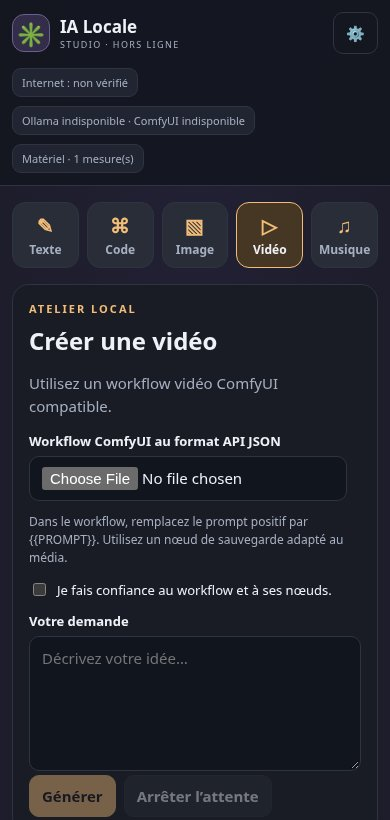
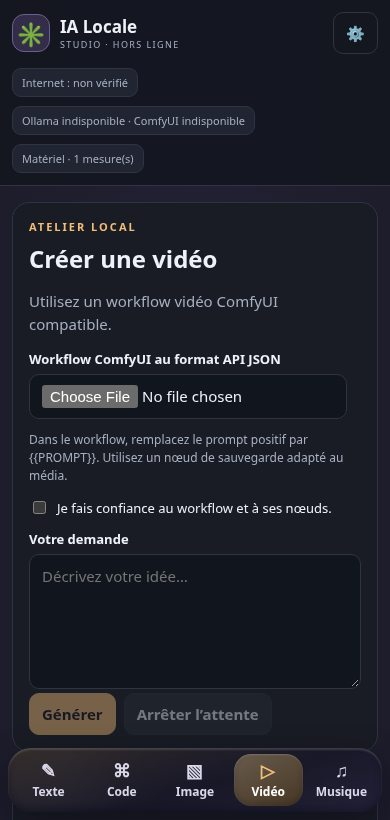
Redesign workshop navigation with Liquid Glass and test all platforms (#4)

diff --git a/desktop/web/style.css b/desktop/web/style.css
@@ -1,3 +1,77 @@
-:root{color-scheme:dark;--bg:#101217;--panel:#191c24;--border:#2e3441;--ink:#eef1f7;--muted:#a6afc1;--accent:#b3a0fa;--accent-bg:#39304c;font-family:system-ui,-apple-system,BlinkMacSystemFont,"Segoe UI",sans-serif}*{box-sizing:border-box}body{margin:0;background:radial-gradient(ellipse at 50% 0,#222134 0,transparent 43rem),var(--bg);color:var(--ink);font-size:15px;min-height:100vh}header{position:sticky;top:0;z-index:5;display:flex;align-items:center;justify-content:space-between;gap:14px;padding:15px max(20px,calc((100vw - 1160px)/2));background:#141720f5;border-bottom:1px solid var(--border)}.brand{display:flex;gap:10px;align-items:center;white-space:nowrap}.logo{display:grid;place-items:center;border:1px solid #69618d;color:#c8bbff;background:#332d49;width:38px;height:38px;border-radius:12px;font-size:24px}.brand strong{font-size:17px}.brand small{display:block;font-size:9px;letter-spacing:1.4px;color:var(--muted)}.observer{display:flex;gap:9px;flex-wrap:wrap;justify-content:center;font-size:11px;color:var(--muted);min-width:0}.observer span{background:#202531;border:1px solid var(--border);padding:6px 9px;border-radius:9px;overflow-wrap:anywhere}main{max-width:1200px;margin:auto;padding:26px 20px;display:grid;gap:16px}nav{display:grid;grid-template-columns:repeat(5,minmax(0,1fr));gap:8px}nav button{display:flex;align-items:center;justify-content:center;gap:8px;padding:14px 6px;min-width:0;border-radius:13px;color:var(--muted)}nav button span{font-size:20px;color:var(--accent)}nav button.selected{color:var(--ink);background:var(--accent-bg);border-color:var(--accent)}.workspace{display:grid;grid-template-columns:1fr 1fr;gap:16px}.panel{border:1px solid var(--border);border-radius:17px;background:var(--panel);padding:22px;min-width:0}.eyebrow{font-size:11px;letter-spacing:2px;font-weight:700;color:var(--accent)}h1{font-size:clamp(24px,3vw,32px);margin:8px 0}h2{font-size:17px;margin:0}p{color:var(--muted);line-height:1.5}label{display:block;font-weight:600;font-size:13px;margin:13px 0 6px}button,input,textarea,select{font:inherit;max-width:100%;border:1px solid var(--border);border-radius:10px;color:var(--ink);background:#11151e;padding:10px 12px}button{cursor:pointer;font-weight:600;background:#282d38;min-height:40px}button:hover:not(:disabled){border-color:var(--accent)}button:disabled{opacity:.43;cursor:not-allowed}button.primary{background:var(--accent);color:#141421;border-color:var(--accent)}button.quiet{background:transparent}button:focus-visible,input:focus-visible,textarea:focus-visible,select:focus-visible,summary:focus-visible,a:focus-visible{outline:2px solid var(--accent);outline-offset:2px}.line{display:flex;gap:8px;align-items:center;min-width:0}.line>select,.line>input{flex:1;min-width:0}.space{justify-content:space-between}.wrap,.actions{flex-wrap:wrap}textarea{width:100%;resize:vertical;min-height:112px;line-height:1.5}details{margin:14px 0;color:var(--muted);font-size:13px}details label{flex:1;min-width:0}details select{display:block;width:100%;margin-top:5px}.check{display:flex;align-items:center;gap:8px;font-weight:400}.check input{flex:none}.hint{font-size:12px;color:var(--muted);line-height:1.5;overflow-wrap:anywhere}.pill{font-size:11px;background:#292d3a;color:var(--muted);padding:5px 9px;border-radius:30px;white-space:nowrap}.results pre,#details,#maintenance{white-space:pre-wrap;overflow-wrap:anywhere;font:inherit;line-height:1.6;max-height:55vh;overflow:auto;color:var(--ink);background:#13161e;border-radius:12px;padding:14px;min-height:100px}.results pre{min-height:240px}#files,#outputs,#library-results{display:grid;gap:8px;margin-top:12px}.entry{display:flex;justify-content:space-between;align-items:center;gap:8px;min-width:0;padding:10px;border:1px solid var(--border);border-radius:10px}.entry span,.entry a{overflow-wrap:anywhere;min-width:0}a{color:var(--accent)}dialog{width:min(650px,calc(100% - 24px));max-height:90dvh;overflow:auto;color:var(--ink);background:var(--panel);border:1px solid var(--border);border-radius:16px;padding:22px}dialog::backdrop{background:#000a}footer{padding:8px 20px 24px;text-align:center;font-size:12px;color:var(--muted)}[hidden]{display:none!important}body[data-kind=code]{--accent:#79d4ea;--accent-bg:#193b49}body[data-kind=image]{--accent:#f2a5bc;--accent-bg:#4a293b}body[data-kind=video]{--accent:#f3bd79;--accent-bg:#463624}body[data-kind=musique]{--accent:#8cdbaf;--accent-bg:#234238}@media(max-width:760px){.workspace{grid-template-columns:1fr}header{padding:12px;flex-wrap:wrap}.observer{order:3;width:100%;justify-content:flex-start}main{padding:16px 12px}.panel{padding:16px}nav button{flex-direction:column;gap:2px;font-size:12px;padding:9px 2px}.results pre{min-height:150px}.brand{flex:1}}@media(max-width:360px){main{padding:12px 8px}nav{gap:4px}.line.actions button{font-size:12px;padding:8px}.panel{padding:12px}}@media(prefers-reduced-motion:no-preference){button{transition:background .12s,border-color .12s}} 
+:root{color-scheme:dark;--bg:#101217;--panel:#191c24;--border:#2e3441;--ink:#eef1f7;--muted:#a6afc1;--accent:#b3a0fa;--accent-bg:#39304c;font-family:system-ui,-apple-system,BlinkMacSystemFont,"Segoe UI",sans-serif}*{box-sizing:border-box}body{margin:0;background:radial-gradient(ellipse at 50% 0,#222134 0,transparent 43rem),var(--bg);color:var(--ink);font-size:15px;min-height:100vh}header{position:sticky;top:0;z-index:5;display:flex;align-items:center;justify-content:space-between;gap:14px;padding:15px max(20px,calc((100vw - 1160px)/2));background:#141720f5;border-bottom:1px solid var(--border)}.brand{display:flex;gap:10px;align-items:center;white-space:nowrap}.logo{display:grid;place-items:center;border:1px solid #69618d;color:#c8bbff;background:#332d49;width:38px;height:38px;border-radius:12px;font-size:24px}.brand strong{font-size:17px}.brand small{display:block;font-size:9px;letter-spacing:1.4px;color:var(--muted)}.observer{display:flex;gap:9px;flex-wrap:wrap;justify-content:center;font-size:11px;color:var(--muted);min-width:0}.observer span{background:#202531;border:1px solid var(--border);padding:6px 9px;border-radius:9px;overflow-wrap:anywhere}main{max-width:1200px;margin:auto;padding:26px 20px;display:grid;gap:16px}#tabs {
+  position: sticky;
+  top: calc(var(--header-height, 70px) + 10px);
+  z-index: 4;
+  display: grid;
+  grid-template-columns: repeat(5, minmax(0, 1fr));
+  gap: 4px;
+  padding: 7px;
+  border-radius: 26px;
+  background: linear-gradient(165deg, #44405a, #201e2e 55%, #28263b);
+  box-shadow: inset 0 2px 2px #ffffff28, inset 0 -3px 7px #0b091a70,
+              0 12px 34px #08071270;
+}
+
+@supports (backdrop-filter: blur(1px)) or (-webkit-backdrop-filter: blur(1px)) {
+  #tabs {
+    background: linear-gradient(165deg, #3c345779, #181626be 55%, #25223c9e);
+    background: linear-gradient(165deg, color-mix(in srgb, var(--accent-bg) 56%, transparent),
+                                #181626be 55%, #25223c9e);
+    -webkit-backdrop-filter: blur(36px) saturate(1.5);
+    backdrop-filter: blur(36px) saturate(1.5);
+  }
+}
+
+#tabs button {
+  display: flex;
+  align-items: center;
+  justify-content: center;
+  gap: 8px;
+  min-width: 0;
+  min-height: 48px;
+  padding: 8px 4px;
+  border: 0;
+  border-radius: 19px;
+  background: transparent;
+  color: #dad7e8;
+}
+
+#tabs button span { font-size: 20px; line-height: 1; color: inherit; }
+#tabs button:hover { background: #ffffff12; }
+#tabs button.selected {
+  color: #fff;
+  background: linear-gradient(155deg, #ffffff30, transparent), var(--accent-bg);
+  box-shadow: inset 0 1px 2px #ffffff30, inset 0 -2px 6px #0b091a35;
+}
+#tabs button.selected span { color: var(--accent); }
+#tabs button:focus-visible { outline-offset: -3px; }
+
+@media (max-width: 760px) {
+  body { padding-bottom: calc(85px + env(safe-area-inset-bottom, 0px)); }
+  html { scroll-padding-bottom: calc(96px + env(safe-area-inset-bottom, 0px)); }
+  #tabs {
+    position: fixed;
+    inset: auto max(8px, env(safe-area-inset-right, 0px))
+           calc(8px + env(safe-area-inset-bottom, 0px))
+           max(8px, env(safe-area-inset-left, 0px));
+    z-index: 6;
+    padding: 6px;
+    border-radius: 23px;
+  }
+  #tabs button {
+    flex-direction: column;
+    gap: 4px;
+    min-height: 52px;
+    padding: 5px 1px;
+    border-radius: 17px;
+    font-size: 12px;
+  }
+  #tabs button span { font-size: 18px; }
+}
+@media (forced-colors: active) {
+  #tabs { border: 1px solid ButtonText; }
+  #tabs button.selected { outline: 2px solid Highlight; outline-offset: -3px; }
+}
+.workspace{display:grid;grid-template-columns:1fr 1fr;gap:16px}.panel{border:1px solid var(--border);border-radius:17px;background:var(--panel);padding:22px;min-width:0}.eyebrow{font-size:11px;letter-spacing:2px;font-weight:700;color:var(--accent)}h1{font-size:clamp(24px,3vw,32px);margin:8px 0}h2{font-size:17px;margin:0}p{color:var(--muted);line-height:1.5}label{display:block;font-weight:600;font-size:13px;margin:13px 0 6px}button,input,textarea,select{font:inherit;max-width:100%;border:1px solid var(--border);border-radius:10px;color:var(--ink);background:#11151e;padding:10px 12px}button{cursor:pointer;font-weight:600;background:#282d38;min-height:40px}button:hover:not(:disabled){border-color:var(--accent)}button:disabled{opacity:.43;cursor:not-allowed}button.primary{background:var(--accent);color:#141421;border-color:var(--accent)}button.quiet{background:transparent}button:focus-visible,input:focus-visible,textarea:focus-visible,select:focus-visible,summary:focus-visible,a:focus-visible{outline:2px solid var(--accent);outline-offset:2px}.line{display:flex;gap:8px;align-items:center;min-width:0}.line>select,.line>input{flex:1;min-width:0}.space{justify-content:space-between}.wrap,.actions{flex-wrap:wrap}textarea{width:100%;resize:vertical;min-height:112px;line-height:1.5}details{margin:14px 0;color:var(--muted);font-size:13px}details label{flex:1;min-width:0}details select{display:block;width:100%;margin-top:5px}.check{display:flex;align-items:center;gap:8px;font-weight:400}.check input{flex:none}.hint{font-size:12px;color:var(--muted);line-height:1.5;overflow-wrap:anywhere}.pill{font-size:11px;background:#292d3a;color:var(--muted);padding:5px 9px;border-radius:30px;white-space:nowrap}.results pre,#details,#maintenance{white-space:pre-wrap;overflow-wrap:anywhere;font:inherit;line-height:1.6;max-height:55vh;overflow:auto;color:var(--ink);background:#13161e;border-radius:12px;padding:14px;min-height:100px}.results pre{min-height:240px}#files,#outputs,#library-results{display:grid;gap:8px;margin-top:12px}.entry{display:flex;justify-content:space-between;align-items:center;gap:8px;min-width:0;padding:10px;border:1px solid var(--border);border-radius:10px}.entry span,.entry a{overflow-wrap:anywhere;min-width:0}a{color:var(--accent)}dialog{width:min(650px,calc(100% - 24px));max-height:90dvh;overflow:auto;color:var(--ink);background:var(--panel);border:1px solid var(--border);border-radius:16px;padding:22px}dialog::backdrop{background:#000a}footer{padding:8px 20px 24px;text-align:center;font-size:12px;color:var(--muted)}[hidden]{display:none!important}body[data-kind=code]{--accent:#79d4ea;--accent-bg:#193b49}body[data-kind=image]{--accent:#f2a5bc;--accent-bg:#4a293b}body[data-kind=video]{--accent:#f3bd79;--accent-bg:#463624}body[data-kind=musique]{--accent:#8cdbaf;--accent-bg:#234238}@media(max-width:760px){.workspace{grid-template-columns:1fr}header{position:static;padding:12px;flex-wrap:wrap}.observer{order:3;width:100%;justify-content:flex-start}main{padding:16px 12px}.panel{padding:16px}.results pre{min-height:150px}.brand{flex:1}}@media(max-width:360px){main{padding:12px 8px}.line.actions button{font-size:12px;padding:8px}.panel{padding:12px}}@media(prefers-reduced-motion:no-preference){button{transition:background .12s,border-color .12s}}
 
 #network[data-offline=true]{color:#ffc98e;border-color:#a77945}#network-message:not(:empty){padding:9px;border:1px solid var(--border);border-radius:9px}#pull-form input{min-width:140px}

diff --git a/desktop/web/index.html b/desktop/web/index.html
@@ -1,1 +1,1 @@
-<!doctype html><html lang="fr"><head><meta charset="utf-8"><meta name="viewport" content="width=device-width, initial-scale=1"><title>IA Locale Studio</title><link rel="stylesheet" href="style.css"><script defer src="app.js"></script></head><body><header><div class="brand"><span class="logo">✳</span><div><strong>IA Locale</strong><small>STUDIO · HORS LIGNE</small></div></div><div class="observer"><span id="network" role="status">Internet : non vérifié</span><span id="engines">Connexion…</span><span id="hardware">Matériel : en attente</span></div><button id="settings" class="quiet" aria-label="Ouvrir les réglages">⚙</button></header><main><nav aria-label="Création" id="tabs"><button data-kind="texte" class="selected"><span>✎</span>Texte</button><button data-kind="code"><span>⌘</span>Code</button><button data-kind="image"><span>▧</span>Image</button><button data-kind="video"><span>▷</span>Vidéo</button><button data-kind="musique"><span>♫</span>Musique</button></nav><div class="workspace"><section class="panel compose"><div class="eyebrow">ATELIER LOCAL</div><h1 id="heading">Créer du texte</h1><p id="subtitle">Discutez avec un modèle local via Ollama.</p><form id="generate-form"><div id="text-settings"><label for="models">Modèle installé</label><div class="line"><select id="models" required><option value="">Aucun modèle détecté</option></select><button type="button" id="refresh" class="quiet">Actualiser</button></div><details><summary>Réglages de génération</summary><div class="line"><label>Contexte <select id="context"><option>2048</option><option selected>4096</option><option>8192</option><option>16384</option><option>32768</option></select></label><label>Tokens maximum <select id="tokens"><option>256</option><option selected>1024</option><option>2048</option><option>4096</option><option>8192</option></select></label></div><p class="hint">Une valeur élevée augmente la mémoire utilisée. Déchargement demandé à la fin.</p></details></div><div id="media-settings" hidden><label for="workflow">Workflow ComfyUI au format API JSON</label><input type="file" id="workflow" accept=".json,application/json"><p class="hint">Dans le workflow, remplacez le prompt positif par {{PROMPT}}. Utilisez un nœud de sauvegarde adapté au média.</p><label class="check"><input type="checkbox" id="trusted"> Je fais confiance au workflow et à ses nœuds.</label></div><label for="prompt">Votre demande</label><textarea id="prompt" rows="5" required placeholder="Décrivez votre idée…"></textarea><div class="line actions"><button id="generate" type="submit" class="primary">Générer</button><button type="button" id="stop" disabled>Arrêter l’attente</button><button type="button" id="clear" class="quiet">Nouvelle discussion</button></div></form><div id="feedback" role="status" class="hint"></div></section><section class="panel results"><div class="line space"><h2>Résultat</h2><span class="pill" id="state">Prêt</span></div><pre id="result" aria-live="off">Votre création apparaîtra ici.</pre><div id="files"></div><div id="rate" class="hint"></div></section></div><section class="panel library"><div class="line space"><h2>Bibliothèque de modèles</h2><span class="pill">Hugging Face</span></div><p class="hint">Internet est nécessaire uniquement pour rechercher et récupérer de nouveaux modèles. Les modèles installés fonctionnent hors ligne, avec leurs moteurs locaux. Les résultats Hugging Face ne garantissent pas la compatibilité.</p><form id="search-form" class="line"><input id="search" type="search" placeholder="Rechercher un modèle…" maxlength="200"><button type="submit">Rechercher</button></form><div id="library-results"></div><p id="network-message" class="hint" role="status"></p><details><summary>Installer un modèle Texte / Code (Ollama)</summary><form id="pull-form" class="line wrap"><input id="pull-model" aria-label="Nom du modèle Ollama" placeholder="qwen2.5:7b" maxlength="180" required><button id="pull" type="submit">Télécharger</button></form><p class="hint">Indiquez le nom exact du modèle Ollama. Le stockage et les téléchargements sont gérés par Ollama. Aucun téléchargement automatique.</p></details></section><section class="panel"><div class="line space"><h2>Créations enregistrées</h2><button type="button" class="quiet" id="outputs-refresh">Actualiser</button></div><div id="outputs" class="hint">Chargement…</div></section></main><dialog id="dialog"><div class="line space"><h2>Réglages & maintenance</h2><button id="close" class="quiet" aria-label="Fermer">✕</button></div><p id="root" class="hint"></p><p>Les moteurs doivent être installés et démarrés sur ce PC. Aucun moteur distant n’est utilisé par défaut.</p><pre id="details">En attente des mesures…</pre><div class="line wrap"><button id="benchmark">Benchmark Texte / Code</button><button id="backup">Sauvegarder les données</button><button id="diag-refresh" class="quiet">Actualiser les mesures</button></div><div class="line"><select id="backup-list" aria-label="Archive à restaurer"><option value="">Aucune archive</option></select><button id="restore" disabled>Restaurer dans un nouveau dossier</button></div><p class="hint">Les modèles situés en dehors de data/ ne sont pas inclus. La restauration ne remplace jamais les données actuelles.</p><pre id="maintenance" role="status"></pre></dialog><footer>Local · Aucune télémétrie intégrée · Une opération à la fois</footer></body></html>
+<!doctype html><html lang="fr"><head><meta charset="utf-8"><meta name="viewport" content="width=device-width, initial-scale=1,viewport-fit=cover"><title>IA Locale Studio</title><link rel="stylesheet" href="style.css"><script defer src="app.js"></script></head><body><header><div class="brand"><span class="logo">✳</span><div><strong>IA Locale</strong><small>STUDIO · HORS LIGNE</small></div></div><div class="observer"><span id="network" role="status">Internet : non vérifié</span><span id="engines">Connexion…</span><span id="hardware">Matériel : en attente</span></div><button id="settings" class="quiet" aria-label="Ouvrir les réglages">⚙</button></header><main><nav aria-label="Création" id="tabs"><button type="button" data-kind="texte" class="selected" aria-pressed="true"><span aria-hidden="true">✎</span>Texte</button><button type="button" data-kind="code" aria-pressed="false"><span aria-hidden="true">⌘</span>Code</button><button type="button" data-kind="image" aria-pressed="false"><span aria-hidden="true">▧</span>Image</button><button type="button" data-kind="video" aria-pressed="false"><span aria-hidden="true">▷</span>Vidéo</button><button type="button" data-kind="musique" aria-pressed="false"><span aria-hidden="true">♫</span>Musique</button></nav><div class="workspace"><section class="panel compose"><div class="eyebrow">ATELIER LOCAL</div><h1 id="heading">Créer du texte</h1><p id="subtitle">Discutez avec un modèle local via Ollama.</p><form id="generate-form"><div id="text-settings"><label for="models">Modèle installé</label><div class="line"><select id="models" required><option value="">Aucun modèle détecté</option></select><button type="button" id="refresh" class="quiet">Actualiser</button></div><details><summary>Réglages de génération</summary><div class="line"><label>Contexte <select id="context"><option>2048</option><option selected>4096</option><option>8192</option><option>16384</option><option>32768</option></select></label><label>Tokens maximum <select id="tokens"><option>256</option><option selected>1024</option><option>2048</option><option>4096</option><option>8192</option></select></label></div><p class="hint">Une valeur élevée augmente la mémoire utilisée. Déchargement demandé à la fin.</p></details></div><div id="media-settings" hidden><label for="workflow">Workflow ComfyUI au format API JSON</label><input type="file" id="workflow" accept=".json,application/json"><p class="hint">Dans le workflow, remplacez le prompt positif par {{PROMPT}}. Utilisez un nœud de sauvegarde adapté au média.</p><label class="check"><input type="checkbox" id="trusted"> Je fais confiance au workflow et à ses nœuds.</label></div><label for="prompt">Votre demande</label><textarea id="prompt" rows="5" required placeholder="Décrivez votre idée…"></textarea><div class="line actions"><button id="generate" type="submit" class="primary">Générer</button><button type="button" id="stop" disabled>Arrêter l’attente</button><button type="button" id="clear" class="quiet">Nouvelle discussion</button></div></form><div id="feedback" role="status" class="hint"></div></section><section class="panel results"><div class="line space"><h2>Résultat</h2><span class="pill" id="state">Prêt</span></div><pre id="result" aria-live="off">Votre création apparaîtra ici.</pre><div id="files"></div><div id="rate" class="hint"></div></section></div><section class="panel library"><div class="line space"><h2>Bibliothèque de modèles</h2><span class="pill">Hugging Face</span></div><p class="hint">Internet est nécessaire uniquement pour rechercher et récupérer de nouveaux modèles. Les modèles installés fonctionnent hors ligne, avec leurs moteurs locaux. Les résultats Hugging Face ne garantissent pas la compatibilité.</p><form id="search-form" class="line"><input id="search" type="search" placeholder="Rechercher un modèle…" maxlength="200"><button type="submit">Rechercher</button></form><div id="library-results"></div><p id="network-message" class="hint" role="status"></p><details><summary>Installer un modèle Texte / Code (Ollama)</summary><form id="pull-form" class="line wrap"><input id="pull-model" aria-label="Nom du modèle Ollama" placeholder="qwen2.5:7b" maxlength="180" required><button id="pull" type="submit">Télécharger</button></form><p class="hint">Indiquez le nom exact du modèle Ollama. Le stockage et les téléchargements sont gérés par Ollama. Aucun téléchargement automatique.</p></details></section><section class="panel"><div class="line space"><h2>Créations enregistrées</h2><button type="button" class="quiet" id="outputs-refresh">Actualiser</button></div><div id="outputs" class="hint">Chargement…</div></section></main><dialog id="dialog"><div class="line space"><h2>Réglages & maintenance</h2><button id="close" class="quiet" aria-label="Fermer">✕</button></div><p id="root" class="hint"></p><p>Les moteurs doivent être installés et démarrés sur ce PC. Aucun moteur distant n’est utilisé par défaut.</p><pre id="details">En attente des mesures…</pre><div class="line wrap"><button id="benchmark">Benchmark Texte / Code</button><button id="backup">Sauvegarder les données</button><button id="diag-refresh" class="quiet">Actualiser les mesures</button></div><div class="line"><select id="backup-list" aria-label="Archive à restaurer"><option value="">Aucune archive</option></select><button id="restore" disabled>Restaurer dans un nouveau dossier</button></div><p class="hint">Les modèles situés en dehors de data/ ne sont pas inclus. La restauration ne remplace jamais les données actuelles.</p><pre id="maintenance" role="status"></pre></dialog><footer>Local · Aucune télémétrie intégrée · Une opération à la fois</footer></body></html>

diff --git a/desktop/web/app.js b/desktop/web/app.js
@@ -1,6 +1,22 @@
 'use strict';const $=id=>document.getElementById(id);let token='',kind='texte',status={},job={},timer=null,history={texte:[],code:[]},pending=null;const config={texte:['Créer du texte','Discutez avec un modèle local via Ollama.'],code:['Créer du code','Programmez avec un modèle local via Ollama.'],image:['Créer une image','Utilisez un workflow ComfyUI compatible.'],video:['Créer une vidéo','Utilisez un workflow vidéo ComfyUI compatible.'],musique:['Créer de la musique','Utilisez un workflow audio ou musical ComfyUI compatible.']};const textMode=()=>kind==='texte'||kind==='code';const busy=()=>job.state==='running'||job.state==='stopping';async function api(path,body){const r=await fetch('/api/'+path,{method:body===undefined?'GET':'POST',headers:{'X-Studio-Token':token,...(body===undefined?{}:{'Content-Type':'application/json'})},...(body===undefined?{}:{body:JSON.stringify(body)})});const v=await r.json();if(!r.ok)throw Error(v.error||'HTTP '+r.status);return v}function msg(v){$('feedback').textContent=v}function controls(){const available=textMode()?(!status.ollama_error&&!!$('models').value):(!status.comfy_error&&!!status.comfy_stats);$('generate').disabled=busy()||!available;$('stop').disabled=!busy()||job.state==='stopping'||!(Object.keys(config).includes(job.kind)||job.kind==='pull');$('benchmark').disabled=busy()||!!status.ollama_error||!(status.models||[]).length;$('backup').disabled=busy();$('restore').disabled=busy()||!$('backup-list').value;$('clear').disabled=busy();$('prompt').disabled=busy();$('models').disabled=busy();$('workflow').disabled=busy();$('trusted').disabled=busy();$('pull').disabled=busy()||!!status.ollama_error}
 function selectKind(k){kind=k;document.body.dataset.kind=k;for(const b of document.querySelectorAll('[data-kind]'))if(b.tagName==='BUTTON'){b.classList.toggle('selected',b.dataset.kind===k);b.setAttribute('aria-pressed',String(b.dataset.kind===k))}$('heading').textContent=config[k][0];$('subtitle').textContent=config[k][1];$('text-settings').hidden=!textMode();$('media-settings').hidden=textMode();$('models').required=textMode();$('clear').hidden=!textMode();$('workflow').value='';$('trusted').checked=false;msg('');controls()}
-for(const b of $('tabs').querySelectorAll('button'))b.onclick=()=>selectKind(b.dataset.kind);$('models').onchange=controls;$('clear').onclick=()=>{history[kind]=[];$('prompt').value='';msg('Nouvelle discussion : le contexte précédent est effacé.')};async function refresh(){try{status=await api('status');const model=$('models'),old=model.value;model.replaceChildren();const models=status.models||[];if(!models.length)model.append(new Option('Aucun modèle local détecté',''));for(const m of models)model.append(new Option((m.name||m.model)+' · '+(m.size/1e9).toFixed(1)+' Go',m.name||m.model));if([...model.options].some(o=>o.value===old))model.value=old;$('engines').textContent='Ollama '+(status.ollama_error?'indisponible':'joignable')+' · ComfyUI '+(status.comfy_error?'indisponible':'joignable');$('root').textContent='Dossier : '+status.root;controls()}catch(e){$('engines').textContent='Serveur inaccessible';msg(e.message)}}
+const appHeader = document.querySelector('header');
+new ResizeObserver(() => {
+  document.body.style.setProperty('--header-height', appHeader.offsetHeight + 'px');
+}).observe(appHeader);
+for (const button of $('tabs').querySelectorAll('button')) {
+  button.onclick = () => {
+    if (button.dataset.kind === kind) return;
+    selectKind(button.dataset.kind);
+    const headingTop = $('heading').getBoundingClientRect().top;
+    const chromeBottom = Math.max(
+      appHeader.getBoundingClientRect().bottom,
+      matchMedia('(max-width: 760px)').matches ? 0 : $('tabs').getBoundingClientRect().bottom,
+    );
+    if (headingTop < chromeBottom) window.scrollTo(0, 0);
+  };
+}
+$('models').onchange=controls;$('clear').onclick=()=>{history[kind]=[];$('prompt').value='';msg('Nouvelle discussion : le contexte précédent est effacé.')};async function refresh(){try{status=await api('status');const model=$('models'),old=model.value;model.replaceChildren();const models=status.models||[];if(!models.length)model.append(new Option('Aucun modèle local détecté',''));for(const m of models)model.append(new Option((m.name||m.model)+' · '+(m.size/1e9).toFixed(1)+' Go',m.name||m.model));if([...model.options].some(o=>o.value===old))model.value=old;$('engines').textContent='Ollama '+(status.ollama_error?'indisponible':'joignable')+' · ComfyUI '+(status.comfy_error?'indisponible':'joignable');$('root').textContent='Dossier : '+status.root;controls()}catch(e){$('engines').textContent='Serveur inaccessible';msg(e.message)}}
 async function observer(){try{const v=await api('observer');const checks=v.controles||[];$('hardware').textContent=checks.some(x=>x.etat==='OK')?'Matériel · '+checks.filter(x=>x.etat==='OK').length+' mesure(s)':'Matériel non vérifié';$('details').textContent=checks.map(x=>x.controle+' : '+x.detail+' ['+x.etat+']').join('\n')}catch(e){$('hardware').textContent='Mesures indisponibles';$('details').textContent=e.message}}
 async function download(j,name){const a=document.createElement('a');a.href='/api/file?'+new URLSearchParams({job:j,name});a.download=name;document.body.append(a);a.click();a.remove()}function entry(parent,j,name){const line=document.createElement('div');line.className='entry';const s=document.createElement('span');s.textContent=name;const b=document.createElement('button');b.textContent='Enregistrer';b.onclick=async()=>{b.disabled=true;try{await download(j,name)}catch(e){msg(e.message)}finally{b.disabled=false}};line.append(s,b);parent.append(line)}async function outputs(){try{const r=await api('outputs');$('outputs').replaceChildren();if(!r.length)$('outputs').textContent='Aucune création enregistrée.';for(const f of r)entry($('outputs'),f.job,f.name)}catch(e){$('outputs').textContent=e.message}}
 function render(j){const changed=j.id!==job.id||j.state!==job.state||JSON.stringify(j.files)!==JSON.stringify(job.files);job=j;const labels={running:'En cours',stopping:'Arrêt demandé',done:'Terminé',error:'Erreur',stopped:'Attente arrêtée'};$('state').textContent=labels[j.state]||'Prêt';$('result').textContent=[j.text,j.error].filter(Boolean).join('\n\n')||'Votre création apparaîtra ici.';$('rate').textContent=j.progress||(j.rate?j.rate.toFixed(1)+' tokens/s mesurés':'');if(changed){$('files').replaceChildren();for(const f of j.files||[])entry($('files'),j.id,f)}if(['backup','benchmark','restore'].includes(j.kind))$('maintenance').textContent=[labels[j.state],j.text,j.error].filter(Boolean).join('\n');if(changed&&j.kind==='backup'&&!busy())backupList();if(changed&&j.kind==='pull'&&!busy()){refresh();if(j.state==='error'||j.state==='stopped')networkNotice(j.error||'Téléchargement interrompu.');else networkNotice(j.text)}if(pending&&j.id===pending.id&&!busy()){if(j.state==='done'&&['texte','code'].includes(j.kind)){history[j.kind].push({role:'user',content:pending.prompt},{role:'assistant',content:j.text});history[j.kind]=history[j.kind].slice(-20)}pending=null;outputs()}controls()}

diff --git a/android/app/src/main/java/fr/ialocale/mobile/MainActivity.java b/android/app/src/main/java/fr/ialocale/mobile/MainActivity.java
@@ -4,6 +4,11 @@ import android.os.Bundle;
 import android.content.Intent;
 import android.content.Context;
 import android.graphics.Color;
+import android.content.res.ColorStateList;
+import android.graphics.drawable.Drawable;
+import android.graphics.drawable.GradientDrawable;
+import android.graphics.drawable.RippleDrawable;
+import android.graphics.drawable.StateListDrawable;
 import android.net.*;
 import android.view.View;
 import android.widget.*;
@@ -32,14 +37,57 @@ public final class MainActivity extends Activity {
         ScrollView scroll=new ScrollView(this);scroll.setFillViewport(true);
         LinearLayout root=new LinearLayout(this);root.setOrientation(LinearLayout.VERTICAL);root.setPadding(dp(20),dp(32),dp(20),dp(24));root.setBackgroundColor(0xff111521);scroll.addView(root);
         root.addView(label("IA Locale Studio",28));root.addView(label("Android • Calcul local CPU",15));connection=label("",14);root.addView(connection);
-        LinearLayout tabs=new LinearLayout(this);textTab=button("Texte",v->select(false));codeTab=button("Code",v->select(true));tabs.addView(textTab,new LinearLayout.LayoutParams(0,-2,1));tabs.addView(codeTab,new LinearLayout.LayoutParams(0,-2,1));root.addView(tabs);
+        root.addView(createWorkshopBar());
         root.addView(label("Image · Vidéo · Musique : non disponibles dans cette édition native.",14));
         modelLabel=label("",14);root.addView(modelLabel);pick=button("Importer un modèle GGUF",v->{if(busy)return;Intent i=new Intent(Intent.ACTION_OPEN_DOCUMENT);i.setType("*/*");i.addCategory(Intent.CATEGORY_OPENABLE);startActivityForResult(i,PICK);});root.addView(pick);
         download=button("Télécharger un modèle sur Hugging Face",v->{refreshNetwork();if(!online()){state.setText("Vous êtes hors ligne. Connectez-vous pour télécharger un modèle. Les modèles installés restent utilisables.");return;}try{startActivity(new Intent(Intent.ACTION_VIEW,Uri.parse("https://huggingface.co/models?library=gguf")));}catch(Exception e){state.setText("Aucun navigateur disponible.");}});root.addView(download);
         root.addView(label("Demande",16));prompt=new EditText(this);prompt.setHint("Écrire une demande…");prompt.setTextColor(Color.WHITE);prompt.setHintTextColor(0xffa5aabb);prompt.setMinLines(4);root.addView(prompt);
         run=button("Générer localement",v->start());root.addView(run);stop=button("Arrêter",v->{cancelled.set(true);if(nativeReady)stopNative();state.setText("Arrêt demandé…");});root.addView(stop);state=label("Prêt",14);root.addView(state);output=label("",16);output.setTextIsSelectable(true);root.addView(output);setContentView(scroll);select(false);refresh();refreshNetwork();
     }
-    private void select(boolean c){code=c;textTab.setEnabled(!busy&&c);codeTab.setEnabled(!busy&&!c);}
+    private LinearLayout createWorkshopBar() {
+        LinearLayout bar = new LinearLayout(this);
+        bar.setOrientation(LinearLayout.HORIZONTAL);
+        bar.setPadding(dp(6), dp(6), dp(6), dp(6));
+        bar.setBackground(glassGradient(24, 0xff4b435f, 0xff251f35, 0xff302940));
+        bar.setElevation(dp(5));
+        textTab = workshopButton("Texte", false, 0xff6b588b, 0xff433457);
+        codeTab = workshopButton("Code", true, 0xff356875, 0xff244451);
+        bar.addView(textTab, new LinearLayout.LayoutParams(0, -2, 1));
+        bar.addView(codeTab, new LinearLayout.LayoutParams(0, -2, 1));
+        return bar;
+    }
+
+    private Button workshopButton(String title, boolean codeWorkshop, int highlight, int base) {
+        Button tab = button(title, view -> select(codeWorkshop));
+        tab.setMinHeight(dp(48));
+        tab.setMinimumHeight(dp(48));
+        tab.setPadding(dp(8), dp(7), dp(8), dp(7));
+        tab.setTextColor(new ColorStateList(
+                new int[][]{{-android.R.attr.state_enabled}, {android.R.attr.state_selected}, {}},
+                new int[]{0xffa49bb4, Color.WHITE, 0xffe4ddef}));
+        tab.setBackgroundTintList(null);
+        tab.setStateListAnimator(null);
+        StateListDrawable surface = new StateListDrawable();
+        surface.addState(new int[]{android.R.attr.state_selected}, glassGradient(18, highlight, base));
+        surface.addState(new int[]{}, glassGradient(18, Color.TRANSPARENT, Color.TRANSPARENT));
+        Drawable mask = glassGradient(18, Color.WHITE, Color.WHITE);
+        tab.setBackground(new RippleDrawable(ColorStateList.valueOf(0x36ffffff), surface, mask));
+        return tab;
+    }
+
+    private GradientDrawable glassGradient(int radius, int... colors) {
+        GradientDrawable surface = new GradientDrawable(GradientDrawable.Orientation.TL_BR, colors);
+        surface.setCornerRadius(dp(radius));
+        return surface;
+    }
+
+    private void select(boolean codeWorkshop) {
+        code = codeWorkshop;
+        textTab.setSelected(!code);
+        codeTab.setSelected(code);
+        textTab.setEnabled(!busy);
+        codeTab.setEnabled(!busy);
+    }
     private boolean online(){ConnectivityManager cm=(ConnectivityManager)getSystemService(Context.CONNECTIVITY_SERVICE);NetworkCapabilities caps=cm.getNetworkCapabilities(cm.getActiveNetwork());return caps!=null&&caps.hasCapability(NetworkCapabilities.NET_CAPABILITY_VALIDATED);}
     private void refreshNetwork(){connection.setText(online()?"En ligne · calcul toujours local":"Hors ligne · modèles installés utilisables");}
     @Override protected void onResume(){super.onResume();if(connection!=null)refreshNetwork();}

diff --git a/desktop/ui_test.py b/desktop/ui_test.py
@@ -38,13 +38,42 @@ def run():
             line=server.stdout.readline();url=line.split('http://localhost:')[1].strip();url='http://127.0.0.1:'+url;wait_url(url)
             with sync_playwright() as p:
                 browser=p.chromium.launch(executable_path=os.environ.get('CHROMIUM_PATH'),args=['--no-sandbox']);page=browser.new_page(accept_downloads=True);errors=[];page.on('pageerror',lambda e:errors.append(str(e)));page.goto(url);page.locator('#models option[value="local:1"]').wait_for(state='attached')
-                for w,h in [(1440,900),(768,1024),(390,844),(320,720)]:
+                tab_bar = page.get_by_role('navigation', name='Création')
+                expect(tab_bar.get_by_role('button', pressed=True)).to_have_text('✎Texte')
+                assert 'blur(' in tab_bar.evaluate('(bar) => getComputedStyle(bar).backdropFilter')
+                for w,h in [(1440,900),(768,1024),(390,844),(320,720),(667,375)]:
                     page.set_viewport_size({'width':w,'height':h})
                     for k in ['texte','code','image','video','musique']:
                         page.locator('button[data-kind='+k+']').click();assert page.locator('button.selected').get_attribute('data-kind')==k
                         assert page.evaluate('document.documentElement.scrollWidth <= innerWidth+1'),(w,h,k)
                         assert page.locator('#media-settings').is_visible()==(k in ['image','video','musique'])
-                    print(f'PASS {w}×{h}: cinq sections, sélection, formulaires, aucun débordement')
+                    page.evaluate('scrollTo(0, document.body.scrollHeight)')
+                    bar = tab_bar.bounding_box()
+                    assert bar and bar['x'] >= 0 and bar['x'] + bar['width'] <= w + 1
+                    if w <= 760:
+                        assert abs(h - (bar['y'] + bar['height']) - 8) <= 1
+                        footer = page.locator('footer').bounding_box()
+                        assert footer and footer['y'] + footer['height'] <= bar['y']
+                    else:
+                        header = page.locator('header').bounding_box()
+                        assert header and bar['y'] >= header['y'] + header['height']
+                    code_tab = tab_bar.get_by_role('button', name='Code')
+                    code_tab.focus()
+                    code_tab.press('Enter')
+                    expect(code_tab).to_have_attribute('aria-pressed', 'true')
+                    expect(tab_bar.get_by_role('button', pressed=True)).to_have_count(1)
+                    assert page.locator('#heading').bounding_box()['y'] >= 0
+                    print(f'PASS {w}×{h}: barre visible au scroll, clavier, cinq ateliers, aucun débordement')
+                touch = browser.new_page(
+                    viewport={'width': 390, 'height': 844}, is_mobile=True, has_touch=True,
+                    reduced_motion='reduce',
+                )
+                touch.goto(url)
+                touch.get_by_role('button', name='Musique').tap()
+                expect(touch.get_by_role('heading', name='Créer de la musique')).to_be_visible()
+                expect(touch.get_by_role('button', name='Musique')).to_have_attribute('aria-pressed', 'true')
+                touch.close()
+                print('PASS navigation tactile avec animations réduites')
                 page.set_viewport_size({'width':1200,'height':900});page.locator('button[data-kind=texte]').click();page.locator('#prompt').fill('Test');page.locator('#generate').click();expect(page.locator('#state')).to_have_text('Terminé', timeout=10000);assert 'Bonjour test' in page.locator('#result').inner_text();print('PASS chat simulé dans l’interface')
                 with page.expect_download() as d:page.locator('#files button').first.click()
                 assert d.value.suggested_filename=='reponse.txt';assert pathlib.Path(d.value.path()).read_text()=='Bonjour test';print('PASS téléchargement natif sans blob mémoire')

diff --git a/android/tests/workshop_ui.py b/android/tests/workshop_ui.py
@@ -1,0 +1,49 @@
+"""Exercise the published APK's native workshop navigation on a clean emulator."""
+import re
+import subprocess
+import sys
+import time
+import xml.etree.ElementTree as ET
+
+PACKAGE = "fr.ialocale.mobile"
+DUMP = "/sdcard/ia-workshops.xml"
+
+
+def adb(*args):
+    return subprocess.check_output(["adb", *args], encoding="utf-8", timeout=35)
+
+
+def view():
+    adb("shell", "uiautomator", "dump", DUMP)
+    root = ET.fromstring(adb("shell", "cat", DUMP))
+    return {node.get("text"): node.attrib for node in root.iter("node")
+            if node.get("package") == PACKAGE and node.get("text")}
+
+
+def expect_workshop(active):
+    inactive = "Code" if active == "Texte" else "Texte"
+    for _ in range(5):
+        nodes = view()
+        if nodes.get(active, {}).get("selected") == "true":
+            assert nodes[inactive]["selected"] == "false"
+            assert all(nodes[name]["enabled"] == "true" for name in (active, inactive))
+            return nodes
+        time.sleep(0.5)
+    raise AssertionError(f"Atelier {active} non sélectionné. Nœuds visibles : {list(nodes)}")
+
+
+def tap(node):
+    left, top, right, bottom = map(int, re.findall(r"\d+", node["bounds"]))
+    adb("shell", "input", "tap", str((left + right) // 2), str((top + bottom) // 2))
+
+
+adb("install", sys.argv[1])
+launch = adb("shell", "am", "start", "-W", "-n", f"{PACKAGE}/.MainActivity")
+assert "Status: ok" in launch, launch
+first = expect_workshop("Texte")
+assert "Importer un modèle GGUF" in first
+assert "Aucun modèle installé" in first
+tap(first["Code"])
+tap(expect_workshop("Code")["Texte"])
+expect_workshop("Texte")
+print("PASS : installation, démarrage et sélection native Texte → Code → Texte")
